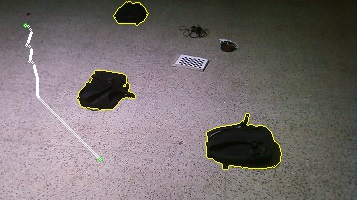
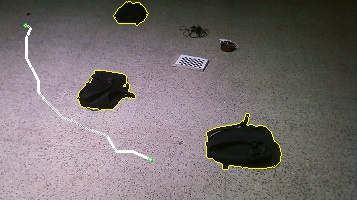
Hybrid Files Updated

diff --git a/A-star-potetial-field-hybrid-type-2.py b/A-star-potetial-field-hybrid-type-2.py
@@ -435,12 +435,12 @@ def make_path(sx, sy, dx, dy):
 
 def final_path(sx, sy, dx, dy, arr, sol):
     print 'len ', len(sol)
-    switch_d = 35
+    switch_d = 30
     solution = []
     delta = 5
     theta = math.pi/8
     l = len(sol)
-    dist = [0 for x in range(l)]
+    dist1 = [0 for x in range(l)]
     dict = {}
     for i in range(len(sol)):
         dict[(sol[i][0], sol[i][1])] = i
@@ -449,12 +449,34 @@ def final_path(sx, sy, dx, dy, arr, sol):
         #print 'i ', i
         nd = nearestObstacle(sx, sy, arr)
         if nd < switch_d:
-            print 'nd ', nd
+            #print 'nd ', nd
             sol1 = path_planning(arr, sx, sy, dx, dy,theta, switch_d)
             for k in sol1:
                 solution.append(k)
             sx1 = sol1[-1][0]
             sy1 = sol1[-1][1]
+
+            d = 1000000000
+            cx = -1
+            cy = -1
+            for j in sol:
+                if math.sqrt((sx1-j[0])*(sx1-j[0])+ (sy1-j[1])*(sy1-j[1])) < d:
+                    cx = j[0]
+                    cy = j[1]
+                    d = math.sqrt((sx1-j[0])*(sx1-j[0])+ (sy1-j[1])*(sy1-j[1]))
+            sx = cx
+            sy = cy
+
+            endx = sol[-1][0]
+            endy = sol[-1][1]
+            cnt = 0
+            i = dict[(sx, sy)]
+            while sx != endx and sy != endy and cnt < 10:
+                (sx, sy) = sol[i]
+                i += 1
+                cnt += 1
+
+            '''
             d = dict[(sx, sy)] + 4*len(sol1)
             d1 = d - delta
             d2 = d + delta
@@ -485,7 +507,10 @@ def final_path(sx, sy, dx, dy, arr, sol):
                     cost = cost1
                     (sx, sy) = sol[j]
 
+            '''
             i = dict[(sx, sy)]
+
+
             sol1 = make_path(sx1, sy1, sx, sy)
             for k in sol1:
                 solution.append(k)
@@ -544,7 +569,7 @@ def main():
         sx = 25 # raw_input("Enter source and destination Coordinates")
         sy = 25  # raw_input()
         dx = 159   # raw_input()
-        dy = 100 # raw_input()
+        dy = 150 # raw_input()
 
         sol = bfs(arr, sx, sy, dx, dy, final_contours)
         l = len(sol)
